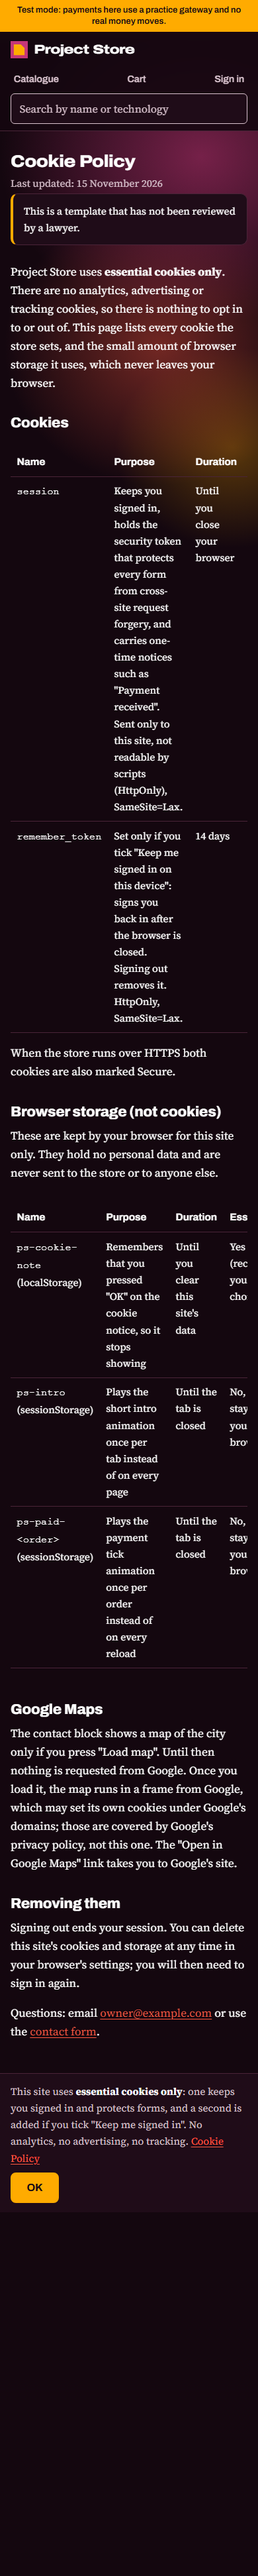
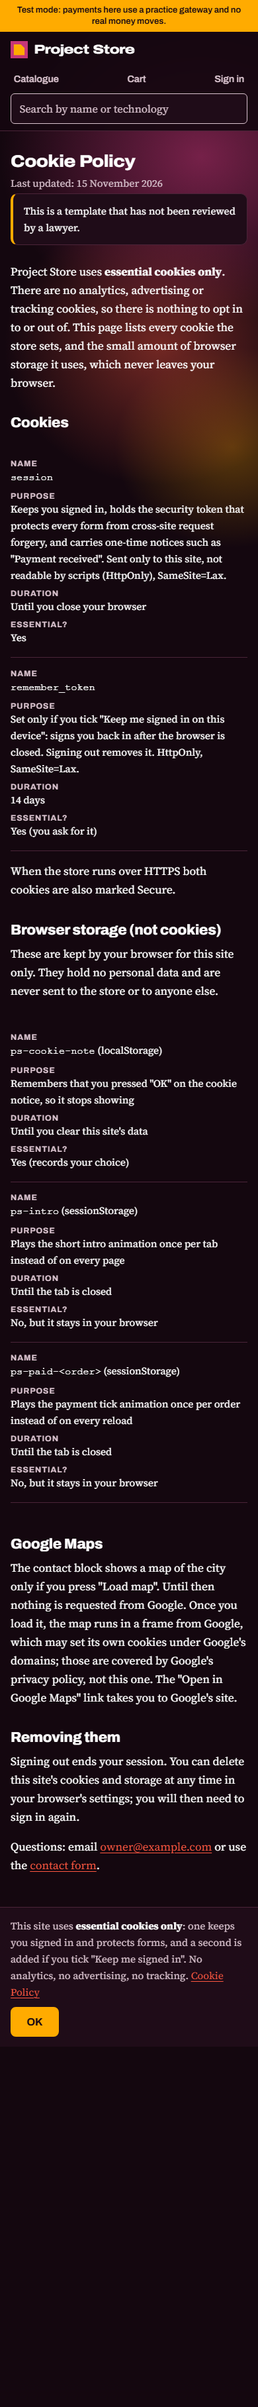
Policy tables become labelled cards on phones so no column is hidden; screenshots retaken [10:36 IST]

diff --git a/app/templates/pages/privacy.html b/app/templates/pages/privacy.html
@@ -10,20 +10,20 @@ actually does; nothing here is aspirational.</p>
 {{ seller_block() }}
 
 <h2>What we keep, and why</h2>
-<div class="table-wrap" tabindex="0" role="region" aria-label="What we keep, and why (scrolls sideways on small screens)">
+<div class="table-wrap">
 <table>
   <thead><tr><th scope="col">Data</th><th scope="col">When</th><th scope="col">Why</th><th scope="col">How long</th></tr></thead>
   <tbody>
-    <tr><td>Your name, email address and a scrypt hash of your password (never the password itself)</td><td>When you create an account</td><td>To sign you in and show your orders</td><td>Until you ask us to remove your account</td></tr>
-    <tr><td>Orders: the name on the order, the projects, prices, totals, dates, status, payment references from the gateway, and when you agreed to the Terms of Sale</td><td>When you check out</td><td>To deliver what you bought, issue the invoice, handle refunds and keep sales records</td><td>As long as the law requires sales records to be kept; the name and contact can be removed earlier on request (see below)</td></tr>
-    <tr><td>The email address or WhatsApp number you chose for your invoice, and when you agreed to receive it</td><td>Only if you tick "Send my invoice and setup guide to this contact" at checkout</td><td>To send one message with the invoice and setup guide after payment</td><td>With the order; removed on request</td></tr>
-    <tr><td>Messages we send you (the recipient and the text) and their delivery status</td><td>After a paid order that asked for a message</td><td>To retry a failed send and to show you whether it was sent</td><td>With the order; the recipient and text are removed on request</td></tr>
-    <tr><td>Your cart</td><td>While you shop, signed in</td><td>To remember what you are buying</td><td>Until you check out or remove the items</td></tr>
-    <tr><td>Contact form messages: first and last name, email, subject, message, and that you agreed to be contacted</td><td>When you send the contact form</td><td>To reply to you</td><td>Until we delete them; there is no automatic deletion yet</td></tr>
-    <tr><td>A "do not contact" list</td><td>When you use a stop link</td><td>To make sure we never message that contact again</td><td>Kept, but it holds only a keyed hash of the contact, not the contact itself</td></tr>
-    <tr><td>Your IP address, the email typed into the sign-in form, and a count of failed attempts</td><td>When a sign-in fails</td><td>To slow down password guessing</td><td>Deleted when you sign in successfully, or after 10 minutes without another failure</td></tr>
-    <tr><td>Your IP address (or your account number) and a count of recent requests</td><td>When you register, check out, confirm a payment, sign in, send the contact form or ask for order messages</td><td>Rate limits that stop abuse</td><td>Deleted after one day</td></tr>
-    <tr><td>Server logs: the address that connected, the time, the page asked for, the response, and your browser's user agent</td><td>Every request</td><td>Security and fixing faults</td><td>Rotated by the server: at most three files of 10 MB each are kept</td></tr>
+    <tr><td data-label="Data">Your name, email address and a scrypt hash of your password (never the password itself)</td><td data-label="When">When you create an account</td><td data-label="Why">To sign you in and show your orders</td><td data-label="How long">Until you ask us to remove your account</td></tr>
+    <tr><td data-label="Data">Orders: the name on the order, the projects, prices, totals, dates, status, payment references from the gateway, and when you agreed to the Terms of Sale</td><td data-label="When">When you check out</td><td data-label="Why">To deliver what you bought, issue the invoice, handle refunds and keep sales records</td><td data-label="How long">As long as the law requires sales records to be kept; the name and contact can be removed earlier on request (see below)</td></tr>
+    <tr><td data-label="Data">The email address or WhatsApp number you chose for your invoice, and when you agreed to receive it</td><td data-label="When">Only if you tick "Send my invoice and setup guide to this contact" at checkout</td><td data-label="Why">To send one message with the invoice and setup guide after payment</td><td data-label="How long">With the order; removed on request</td></tr>
+    <tr><td data-label="Data">Messages we send you (the recipient and the text) and their delivery status</td><td data-label="When">After a paid order that asked for a message</td><td data-label="Why">To retry a failed send and to show you whether it was sent</td><td data-label="How long">With the order; the recipient and text are removed on request</td></tr>
+    <tr><td data-label="Data">Your cart</td><td data-label="When">While you shop, signed in</td><td data-label="Why">To remember what you are buying</td><td data-label="How long">Until you check out or remove the items</td></tr>
+    <tr><td data-label="Data">Contact form messages: first and last name, email, subject, message, and that you agreed to be contacted</td><td data-label="When">When you send the contact form</td><td data-label="Why">To reply to you</td><td data-label="How long">Until we delete them; there is no automatic deletion yet</td></tr>
+    <tr><td data-label="Data">A "do not contact" list</td><td data-label="When">When you use a stop link</td><td data-label="Why">To make sure we never message that contact again</td><td data-label="How long">Kept, but it holds only a keyed hash of the contact, not the contact itself</td></tr>
+    <tr><td data-label="Data">Your IP address, the email typed into the sign-in form, and a count of failed attempts</td><td data-label="When">When a sign-in fails</td><td data-label="Why">To slow down password guessing</td><td data-label="How long">Deleted when you sign in successfully, or after 10 minutes without another failure</td></tr>
+    <tr><td data-label="Data">Your IP address (or your account number) and a count of recent requests</td><td data-label="When">When you register, check out, confirm a payment, sign in, send the contact form or ask for order messages</td><td data-label="Why">Rate limits that stop abuse</td><td data-label="How long">Deleted after one day</td></tr>
+    <tr><td data-label="Data">Server logs: the address that connected, the time, the page asked for, the response, and your browser's user agent</td><td data-label="When">Every request</td><td data-label="Why">Security and fixing faults</td><td data-label="How long">Rotated by the server: at most three files of 10 MB each are kept</td></tr>
   </tbody>
 </table>
 </div>

diff --git a/app/templates/pages/cookies.html b/app/templates/pages/cookies.html
@@ -6,12 +6,12 @@ so there is nothing to opt in to or out of. This page lists every cookie the sto
 browser storage it uses, which never leaves your browser.</p>
 
 <h2>Cookies</h2>
-<div class="table-wrap" tabindex="0" role="region" aria-label="Cookies (scrolls sideways on small screens)">
+<div class="table-wrap">
 <table>
   <thead><tr><th scope="col">Name</th><th scope="col">Purpose</th><th scope="col">Duration</th><th scope="col">Essential?</th></tr></thead>
   <tbody>
-    <tr><td><code>session</code></td><td>Keeps you signed in, holds the security token that protects every form from cross-site request forgery, and carries one-time notices such as "Payment received". Sent only to this site, not readable by scripts (HttpOnly), SameSite=Lax.</td><td>Until you close your browser</td><td>Yes</td></tr>
-    <tr><td><code>remember_token</code></td><td>Set only if you tick "Keep me signed in on this device": signs you back in after the browser is closed. Signing out removes it. HttpOnly, SameSite=Lax.</td><td>14 days</td><td>Yes (you ask for it)</td></tr>
+    <tr><td data-label="Name"><code>session</code></td><td data-label="Purpose">Keeps you signed in, holds the security token that protects every form from cross-site request forgery, and carries one-time notices such as "Payment received". Sent only to this site, not readable by scripts (HttpOnly), SameSite=Lax.</td><td data-label="Duration">Until you close your browser</td><td data-label="Essential?">Yes</td></tr>
+    <tr><td data-label="Name"><code>remember_token</code></td><td data-label="Purpose">Set only if you tick "Keep me signed in on this device": signs you back in after the browser is closed. Signing out removes it. HttpOnly, SameSite=Lax.</td><td data-label="Duration">14 days</td><td data-label="Essential?">Yes (you ask for it)</td></tr>
   </tbody>
 </table>
 </div>
@@ -20,13 +20,13 @@ browser storage it uses, which never leaves your browser.</p>
 <h2>Browser storage (not cookies)</h2>
 <p>These are kept by your browser for this site only. They hold no personal data and are never sent to the store or to
 anyone else.</p>
-<div class="table-wrap" tabindex="0" role="region" aria-label="Browser storage (scrolls sideways on small screens)">
+<div class="table-wrap">
 <table>
   <thead><tr><th scope="col">Name</th><th scope="col">Purpose</th><th scope="col">Duration</th><th scope="col">Essential?</th></tr></thead>
   <tbody>
-    <tr><td><code>ps-cookie-note</code> (localStorage)</td><td>Remembers that you pressed "OK" on the cookie notice, so it stops showing</td><td>Until you clear this site's data</td><td>Yes (records your choice)</td></tr>
-    <tr><td><code>ps-intro</code> (sessionStorage)</td><td>Plays the short intro animation once per tab instead of on every page</td><td>Until the tab is closed</td><td>No, but it stays in your browser</td></tr>
-    <tr><td><code>ps-paid-&lt;order&gt;</code> (sessionStorage)</td><td>Plays the payment tick animation once per order instead of on every reload</td><td>Until the tab is closed</td><td>No, but it stays in your browser</td></tr>
+    <tr><td data-label="Name"><code>ps-cookie-note</code> (localStorage)</td><td data-label="Purpose">Remembers that you pressed "OK" on the cookie notice, so it stops showing</td><td data-label="Duration">Until you clear this site's data</td><td data-label="Essential?">Yes (records your choice)</td></tr>
+    <tr><td data-label="Name"><code>ps-intro</code> (sessionStorage)</td><td data-label="Purpose">Plays the short intro animation once per tab instead of on every page</td><td data-label="Duration">Until the tab is closed</td><td data-label="Essential?">No, but it stays in your browser</td></tr>
+    <tr><td data-label="Name"><code>ps-paid-&lt;order&gt;</code> (sessionStorage)</td><td data-label="Purpose">Plays the payment tick animation once per order instead of on every reload</td><td data-label="Duration">Until the tab is closed</td><td data-label="Essential?">No, but it stays in your browser</td></tr>
   </tbody>
 </table>
 </div>

diff --git a/app/static/css/main.css b/app/static/css/main.css
@@ -661,7 +661,15 @@ html.cookie-ok .cookie-note { display: none; }
 .policy th, .policy td { text-align: left; vertical-align: top; padding: .55rem .6rem; border-bottom: 1px solid var(--line); }
 .policy th { color: var(--white); font-family: var(--font-display); }
 .policy .table-wrap { overflow-x: auto; }
-.policy .table-wrap table { min-width: 36rem; }          /* narrow phones scroll the table sideways instead of squeezing every column to a word per line */
+/* On narrow screens each row of a policy table becomes a labelled card, so no column (the cookie duration, how long data is
+   kept) is ever hidden off to the side; the header row stays for screen readers only. */
+@media (max-width: 620px) {
+  .policy thead { position: absolute; width: 1px; height: 1px; overflow: hidden; clip: rect(0 0 0 0); white-space: nowrap; }
+  .policy table, .policy tbody, .policy tr, .policy td { display: block; }
+  .policy tr { padding: .8rem 0; border-bottom: 1px solid var(--line); }
+  .policy td { border: 0; padding: .25rem 0; }
+  .policy td::before { content: attr(data-label); display: block; font: 700 .76rem var(--font-display); letter-spacing: .08em; text-transform: uppercase; color: var(--muted); }
+}
 .policy dt { font-weight: 700; color: var(--white); margin-top: 1rem; }
 .policy dd { margin: .2rem 0 0; }
 .err-actions { display: flex; flex-wrap: wrap; gap: .8rem 1.2rem; align-items: center; margin-top: 1.4rem; }

diff --git a/tests/test_v14_pages.py b/tests/test_v14_pages.py
@@ -117,7 +117,7 @@ def test_the_cookie_policy_lists_every_cookie_the_app_really_sets(app, client, u
     policy = client.get("/cookies").get_data(as_text=True)
     assert names and names <= {"session", "remember_token"}, names
     for n in names:
-        assert f"<tr><td><code>{n}</code></td>" in policy, n
+        assert f'<tr><td data-label="Name"><code>{n}</code></td>' in policy, n
     js = "".join(f.read_text(encoding="utf-8") for f in (ROOT / "app" / "static" / "js").glob("*.js"))
     assert "document.cookie" not in js                          # no script sets a cookie
     for key in re.findall(r'(?:local|session)Storage\.setItem\("([\w-]+)', js):
